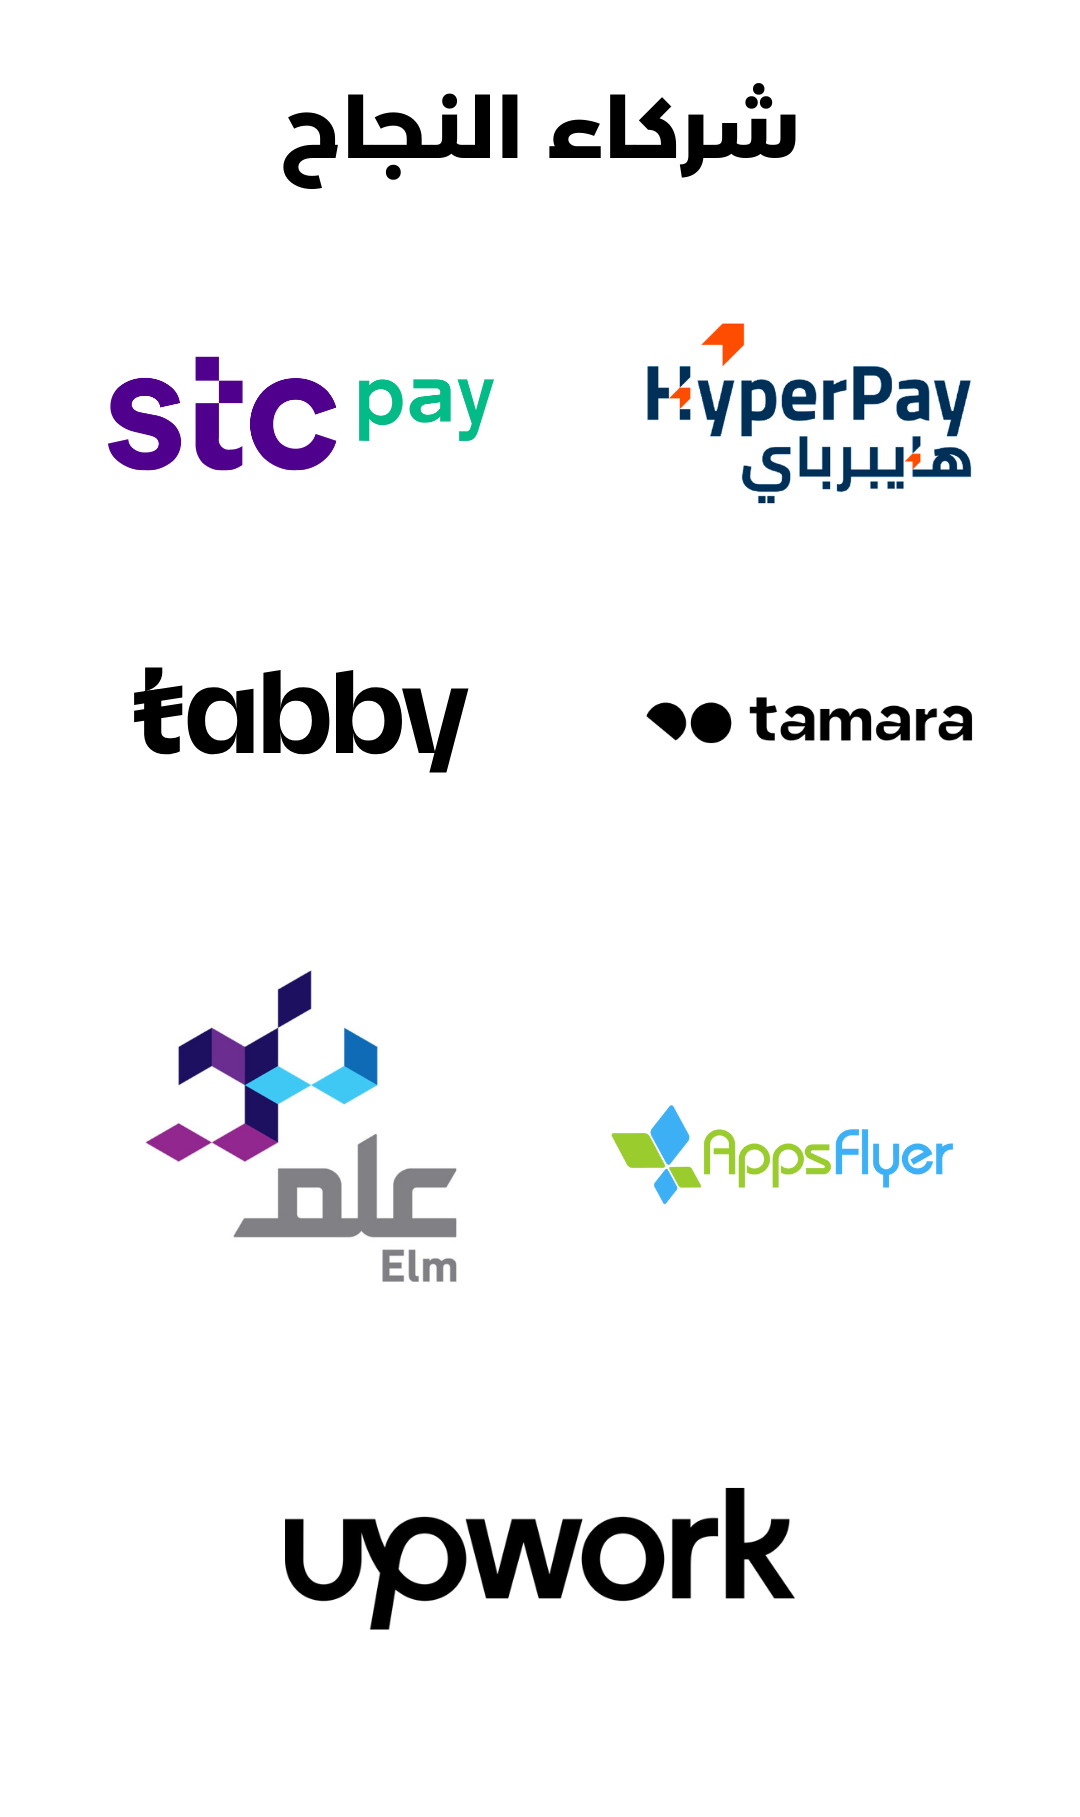
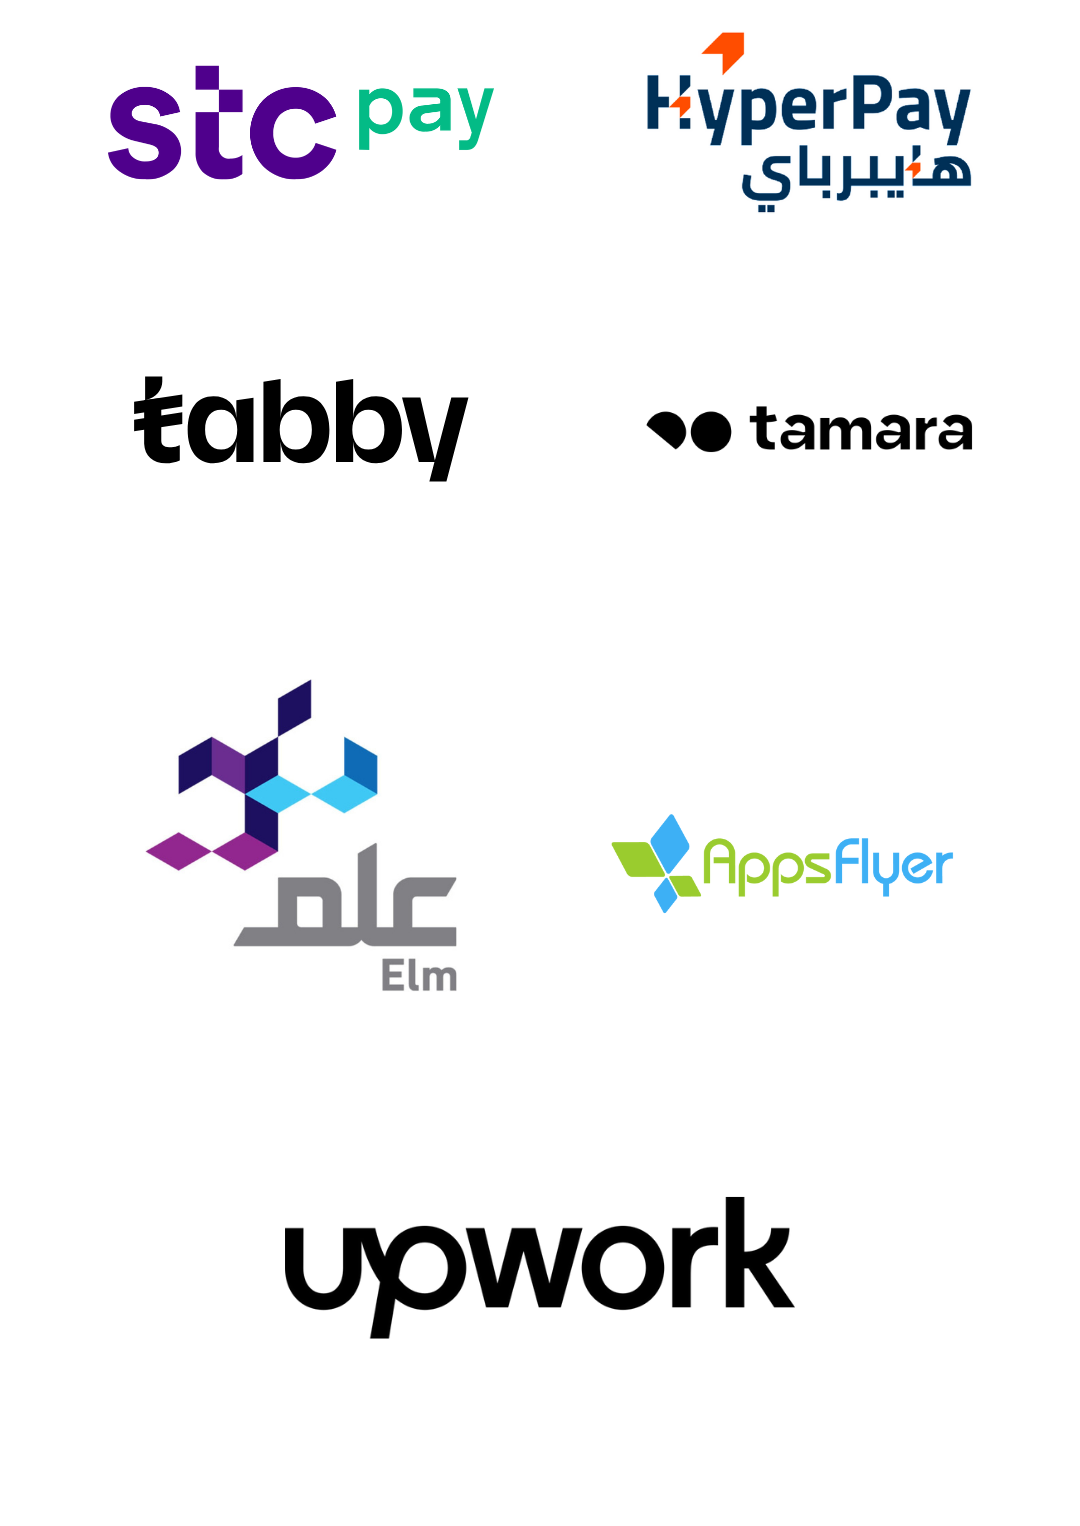
update

diff --git a/index.html b/index.html
@@ -477,6 +477,7 @@
 
 
     <div class="company-section">
+        <h1 data-aos="fade-up" data-aos-duration="800">شركاء النجاح</h1>
         <img src="./assets/img/company-img.png" data-aos="fade-up" data-aos-duration="800" alt="">
     </div>
 
@@ -517,7 +518,7 @@
             <div class="fifth-section-phone"><img src="./assets/img/phone-icon.png" alt=""></div>
         </div>
         <h1 data-aos="fade-up" data-aos-duration="800">وسائل الدفع</h1>
-        <p data-aos="fade-up" data-aos-duration="800"> <span><img src="./assets/img/security-tick.png" class="security-tick" alt=""></span> دفع آمن 100%</p>
+        <p data-aos="fade-up" data-aos-duration="800" style="margin-top: 20px;"> <span><img src="./assets/img/security-tick.png" class="security-tick" alt=""></span> دفع آمن 100%</p>
         <div class="fifth-section-logos">
             <div class="first-line" data-aos="fade-up" data-aos-duration="800"><img src="./assets/img/first-line-logos.png" alt=""></div>
             <div class="second-line" data-aos="fade-up" data-aos-duration="800"><img src="./assets/img/second-line-logos.png" alt=""></div>

diff --git a/english.html b/english.html
@@ -471,6 +471,7 @@
 
 
     <div class="company-section">
+        <h1 data-aos="fade-up" data-aos-duration="800">Success partners</h1>
         <img src="./assets/img/company-img.png" data-aos="fade-up" data-aos-duration="800" alt="">
     </div>
 
@@ -520,7 +521,7 @@
         <div class="horizontal-line-box">
             <div class="horizontal-line" data-aos="fade-up" data-aos-duration="800"></div>
         </div>
-        <div class="fifth-heading-final-text" data-aos="fade-up" data-aos-duration="800" data-aos-offset="0"><span class="copyright-symbol">© </span><p>All rights reserved</p></div>
+        <div class="fifth-heading-final-text" data-aos="fade-up" data-aos-duration="800" data-aos-offset="0"><p>All rights reserved</p><span class="copyright-symbol">© </span></div>
     </div>
 
 

diff --git a/assets/css/english_style.css b/assets/css/english_style.css
@@ -652,6 +652,15 @@ nav {
     overflow: hidden;
 }
 
+.company-section h1 {
+    font-family: 'montserrat-arabic';
+    font-weight: 800;
+    font-size: 30px;
+    text-align: center;
+    margin: 35px 0px
+}
+
+
 .company-section img {
     width: 100%;
 }
@@ -1221,9 +1230,8 @@ footer {
 .copyright-symbol {
     font-family: 'montserrat-arabic';
     font-weight: 800;
-    font-size: 25px;
-    margin-top: -18px;
-
+    margin-top: -16px;
+    margin-left: 5px;
 }
 
 .fifth-section-contact-icons {

diff --git a/assets/css/style.css b/assets/css/style.css
@@ -693,6 +693,15 @@ nav {
     overflow: hidden;
 }
 
+.company-section h1 {
+    direction: rtl;
+    font-family: 'montserrat-arabic';
+    font-weight: 800;
+    font-size: 38px;
+    text-align: center;
+    margin: 35px 0px
+}
+
 .company-section img {
     width: 100%;
 }
